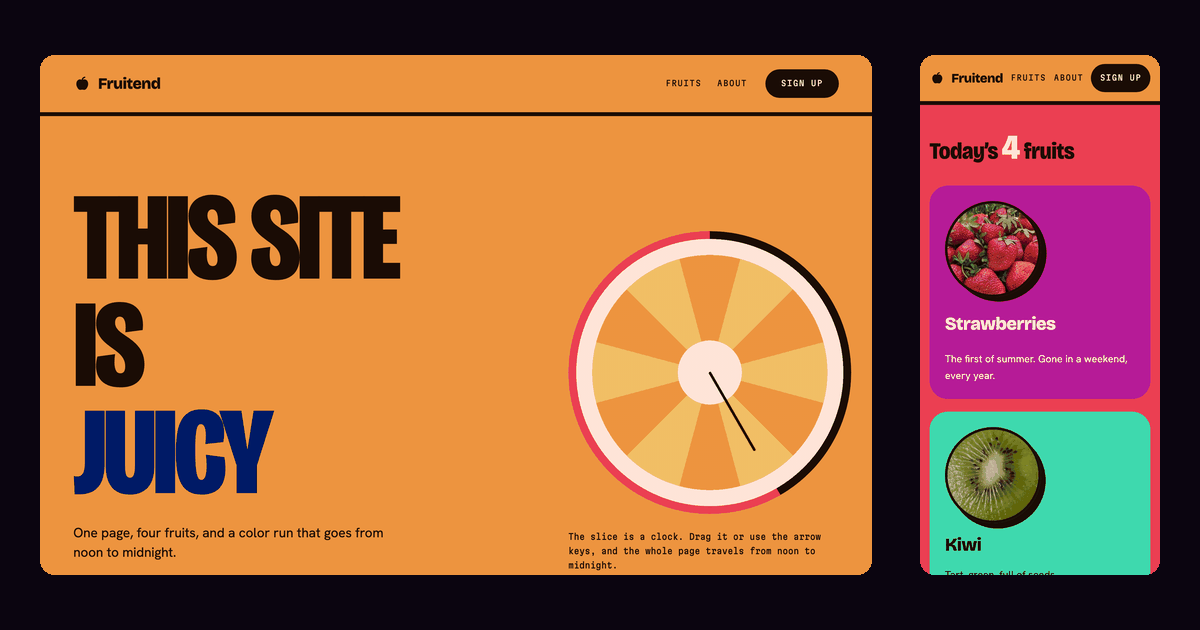
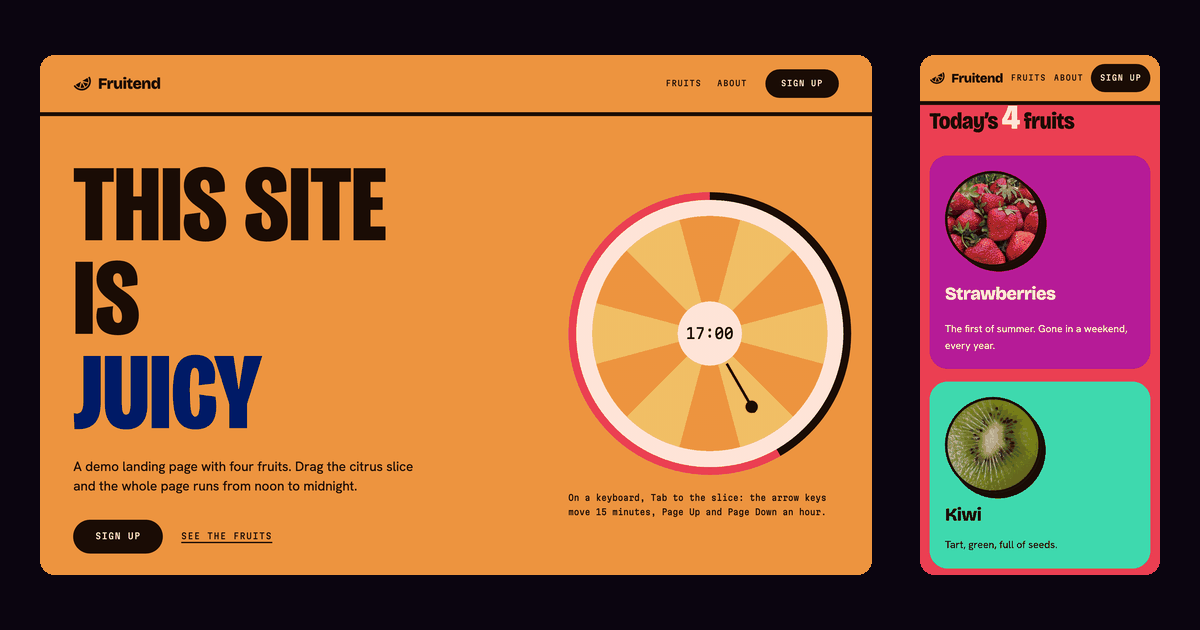
docs: reshoot the preview and describe the clock readout, touch and reduced motion
- images/preview.png: nowy zrzut z tej rundy (17:00, 1280 i 375 px).
  Widok telefonu kończy się w odstępie pod kartą kiwi, więc ramka nie
  tnie żadnej linii tekstu (skrypt sprawdził każdy h1, h2, h3, p, li
  i a: zero przecięć). 256 kolorów, 67 026 B.
- Oba README: godzina w środku plastra, przeciąganie za 12 staje na
  końcu skali, dotyk (stuknięcie, ruch w bok, pionowy ruch przewija),
  a przy ograniczeniu ruchu przycisk Pause jest ukryty.

Claude-Session: https://claude.ai/code/session_01FWkhGb3TGsqNEF7Z4S7QqZ

diff --git a/README.pl.md b/README.pl.md
@@ -14,15 +14,17 @@ Strona na żywo: https://netbr3ak.github.io/fruitend/
 
 - Jedna liczba, `--tod`, steruje paletą. 0 to południe, 1 to północ. CSS wyprowadza z niej
   sześć kolorów przez kolory względne `oklch()`. JavaScript ustawia tylko tę liczbę.
-- Plaster cytrusa to suwak (`role="slider"`). Przeciągnij go albo przejdź do niego klawiszem Tab
-  i użyj klawiszy: każda strzałka to 15 minut, Page Up i Page Down to godzina, Home i End
-  skaczą do południa i do północy.
+- Plaster cytrusa to suwak (`role="slider"`), a w jego środku widać godzinę. Przeciągnij go
+  albo przejdź do niego klawiszem Tab i użyj klawiszy: każda strzałka to 15 minut, Page Up
+  i Page Down to godzina, Home i End skaczą do południa i do północy. Przeciąganie za 12
+  zatrzymuje się w południe albo o północy. Na ekranie dotykowym stuknij plaster albo
+  przeciągnij go w bok; ruch w pionie przewija stronę.
 - Po wczytaniu zegar pokazuje twój czas lokalny. Skala zaczyna się w południe, więc godzina
   przed południem pokazuje południe. Dopisz `?t=21` do adresu, aby przypiąć stronę do 21:00.
 - **Inspect** pokazuje rozmiar, padding, kontrast tekstu i pasujące reguły CSS elementu pod
   kursorem albo z fokusem.
-- Pasek z tekstem ma przycisk Pause. Jeśli system prosi o ograniczenie ruchu, strona nie
-  ma animacji.
+- Pasek z tekstem ma przycisk Pause. Jeśli system prosi o ograniczenie ruchu, nic na stronie
+  się nie rusza, a przycisk Pause jest ukryty.
 - Linki w menu, "See the fruits" i "Sign up" to atrapy. Nigdzie nie prowadzą: kliknięcie
   pokazuje krótki komunikat i niczego nie wysyła.
 

diff --git a/README.md b/README.md
@@ -13,15 +13,16 @@ Live page: https://netbr3ak.github.io/fruitend/
 
 - One number, `--tod`, drives the palette. 0 is noon and 1 is midnight. CSS derives six colors
   from it with `oklch()` relative colors. JavaScript sets only that number.
-- The citrus slice is a slider (`role="slider"`). Drag it, or focus it with Tab and use the
-  keys: each arrow moves 15 minutes, Page Up and Page Down move an hour, Home and End jump to
-  noon and midnight.
+- The citrus slice is a slider (`role="slider"`) and shows the time in its middle. Drag it, or
+  focus it with Tab and use the keys: each arrow moves 15 minutes, Page Up and Page Down move
+  an hour, Home and End jump to noon and midnight. A drag past twelve stops at noon or
+  midnight. On a touch screen, tap the slice or drag sideways; a vertical swipe scrolls the page.
 - On load the clock shows your local time. The ramp starts at noon, so an hour before noon
   shows noon. Add `?t=21` to the address to pin the page at 21:00.
 - **Inspect** shows the size, padding, text contrast and matching CSS rules of the element
   you hover or focus.
-- The ticker has a Pause button. If your system asks for reduced motion, the page does not
-  animate.
+- The ticker has a Pause button. If your system asks for reduced motion, nothing on the page
+  moves and the Pause button is hidden.
 - The nav links, "See the fruits" and "Sign up" are demos. They lead nowhere: a click shows a
   short message and sends nothing.
 
